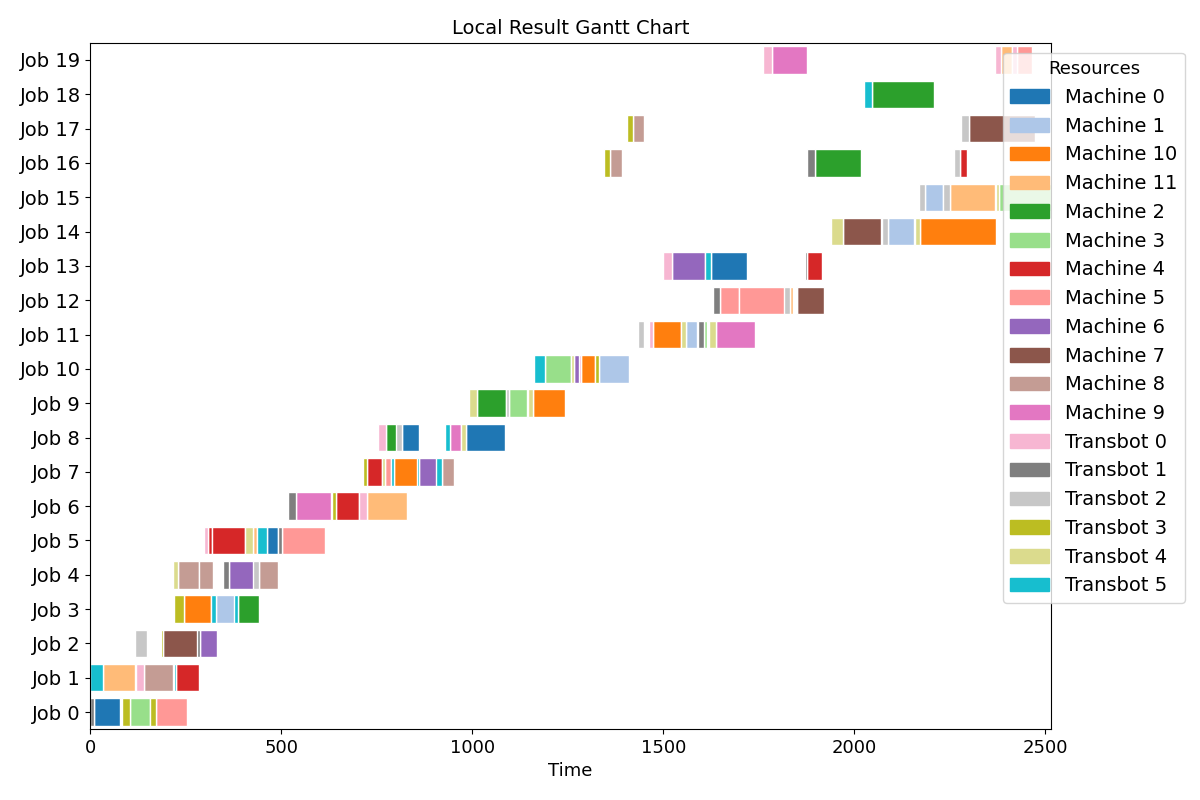
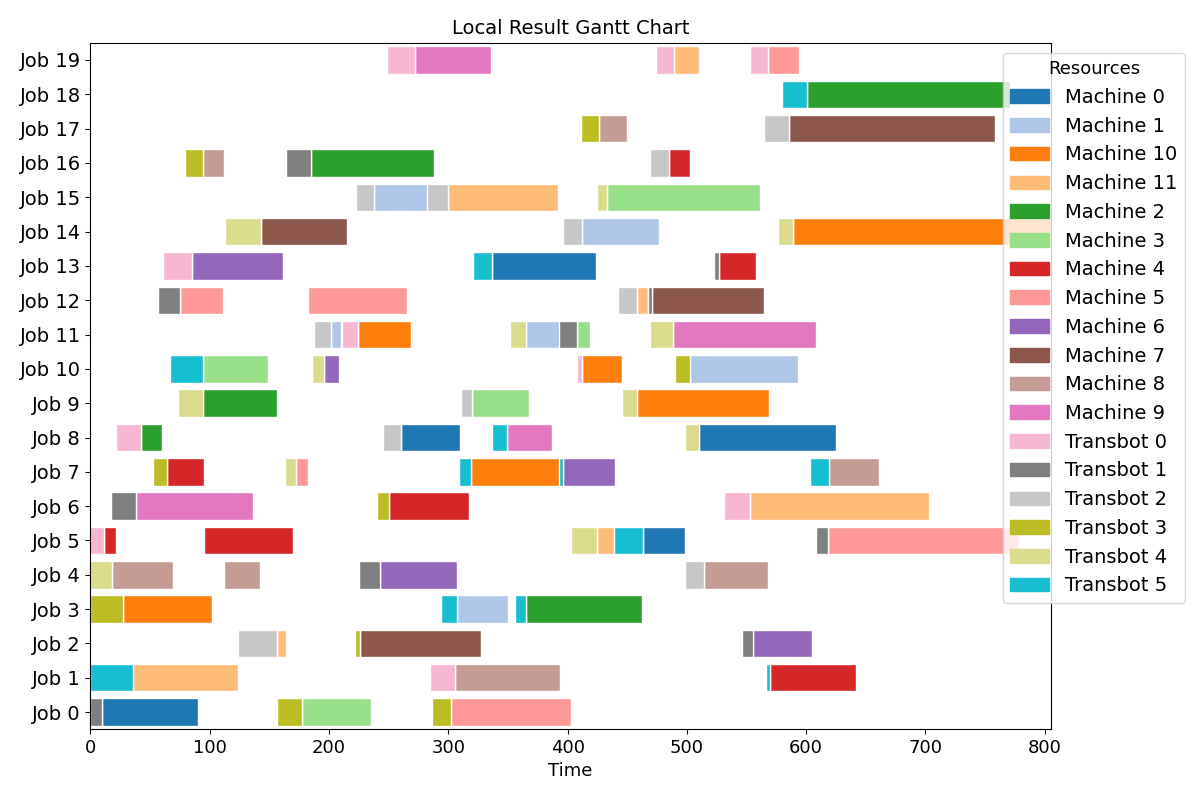
update

diff --git a/local_realtime_scheduling/Environment/InitialScheduleEnv.py b/local_realtime_scheduling/Environment/InitialScheduleEnv.py
@@ -1,5 +1,6 @@
 # from memory_profiler import profile
 # @profile
+import bisect
 import os
 import pickle
 from collections import deque
@@ -48,7 +49,7 @@ class InitialScheduleEnv(MultiAgentEnv):
     """
     A Multi-agent Environment for Integrated Production, Transportation and Maintenance Real-time Scheduling.
     """
-    metadata = {"render_modes": ["human", "rgb_array"], "render_fps": 20}
+    metadata = {"render_modes": ["human", "rgb_array"], "render_fps": 1}
 
     def __init__(self,
                  config,
@@ -446,19 +447,39 @@ class InitialScheduleEnv(MultiAgentEnv):
                     # assigned_machine=None,
                 ))
                 this_job.processing_operations_for_current_time_window.append(int(operation_id))
+
+                scheduled_processing_op = (job_id, operation_id,
+                                           local_schedule_job.operations[operation_id].scheduled_start_processing_time)
+                op_index = bisect.bisect_left([op[2] for op in self.factory_instance.machines[
+                    local_schedule_job_operation.assigned_machine
+                ].processing_tasks_queue_for_current_time_window],
+                                              local_schedule_job.operations[operation_id].scheduled_start_processing_time)
                 self.factory_instance.machines[
                     local_schedule_job_operation.assigned_machine
-                ].processing_tasks_queue_for_current_time_window.append((job_id, operation_id))
+                ].processing_tasks_queue_for_current_time_window.insert(op_index, scheduled_processing_op)
+
                 if local_schedule_job_operation.assigned_transbot is not None:
+                    scheduled_transporting_op = (job_id, operation_id,
+                                               local_schedule_job.operations[operation_id].scheduled_start_transporting_time)
                     if operation_id == 0:
+                        op_index = bisect.bisect_left([op[2] for op in self.factory_instance.agv[
+                            local_schedule_job_operation.assigned_transbot
+                        ].transport_tasks_queue_for_current_time_window],
+                                                      local_schedule_job.operations[operation_id].scheduled_start_transporting_time)
                         self.factory_instance.agv[
                             local_schedule_job_operation.assigned_transbot
-                        ].transport_tasks_queue_for_current_time_window.append((job_id, operation_id))
+                        ].transport_tasks_queue_for_current_time_window.insert(op_index, scheduled_transporting_op)
+
                     else:
                         if local_schedule_job.operations[operation_id].assigned_machine != local_schedule_job.operations[operation_id - 1].assigned_machine:
+                            op_index = bisect.bisect_left([op[2] for op in self.factory_instance.agv[
+                                local_schedule_job_operation.assigned_transbot
+                            ].transport_tasks_queue_for_current_time_window],
+                                                          local_schedule_job.operations[
+                                                              operation_id].scheduled_start_transporting_time)
                             self.factory_instance.agv[
                                 local_schedule_job_operation.assigned_transbot
-                            ].transport_tasks_queue_for_current_time_window.append((job_id, operation_id))
+                            ].transport_tasks_queue_for_current_time_window.insert(op_index, scheduled_transporting_op)
 
             if len(this_job.processing_operations_for_current_time_window) > 0:
                 this_job.current_processing_operation = this_job.processing_operations_for_current_time_window[0]

diff --git a/local_realtime_scheduling/Environment/LocalSchedulingMultiAgentEnv_v2.py b/local_realtime_scheduling/Environment/LocalSchedulingMultiAgentEnv_v2.py
@@ -1,5 +1,6 @@
 # from memory_profiler import profile
 # @profile
+import bisect
 import os
 import pickle
 from collections import deque
@@ -418,20 +419,43 @@ class LocalSchedulingMultiAgentEnv(MultiAgentEnv):
                     # assigned_machine=None,
                 ))
                 this_job.processing_operations_for_current_time_window.append(int(operation_id))
+
+                scheduled_processing_op = (job_id, operation_id,
+                                           local_schedule_job.operations[operation_id].scheduled_start_processing_time)
+                op_index = bisect.bisect_left([op[2] for op in self.factory_instance.machines[
+                    local_schedule_job_operation.assigned_machine
+                ].processing_tasks_queue_for_current_time_window],
+                                              local_schedule_job.operations[
+                                                  operation_id].scheduled_start_processing_time)
                 self.factory_instance.machines[
                     local_schedule_job_operation.assigned_machine
-                ].processing_tasks_queue_for_current_time_window.append((job_id, operation_id))
+                ].processing_tasks_queue_for_current_time_window.insert(op_index, scheduled_processing_op)
+
                 if local_schedule_job_operation.assigned_transbot is not None:
+                    scheduled_transporting_op = (job_id, operation_id,
+                                                 local_schedule_job.operations[
+                                                     operation_id].scheduled_start_transporting_time)
                     if operation_id == 0:
+                        op_index = bisect.bisect_left([op[2] for op in self.factory_instance.agv[
+                            local_schedule_job_operation.assigned_transbot
+                        ].transport_tasks_queue_for_current_time_window],
+                                                      local_schedule_job.operations[
+                                                          operation_id].scheduled_start_transporting_time)
                         self.factory_instance.agv[
                             local_schedule_job_operation.assigned_transbot
-                        ].transport_tasks_queue_for_current_time_window.append((job_id, operation_id))
+                        ].transport_tasks_queue_for_current_time_window.insert(op_index, scheduled_transporting_op)
+
                     else:
                         if local_schedule_job.operations[operation_id].assigned_machine != \
                                 local_schedule_job.operations[operation_id - 1].assigned_machine:
+                            op_index = bisect.bisect_left([op[2] for op in self.factory_instance.agv[
+                                local_schedule_job_operation.assigned_transbot
+                            ].transport_tasks_queue_for_current_time_window],
+                                                          local_schedule_job.operations[
+                                                              operation_id].scheduled_start_transporting_time)
                             self.factory_instance.agv[
                                 local_schedule_job_operation.assigned_transbot
-                            ].transport_tasks_queue_for_current_time_window.append((job_id, operation_id))
+                            ].transport_tasks_queue_for_current_time_window.insert(op_index, scheduled_transporting_op)
 
             if len(this_job.processing_operations_for_current_time_window) > 0:
                 this_job.current_processing_operation = this_job.processing_operations_for_current_time_window[0]

diff --git a/local_realtime_scheduling/BaselineMethods/DispatchingRules/dispatching_rules_test.py b/local_realtime_scheduling/BaselineMethods/DispatchingRules/dispatching_rules_test.py
@@ -48,7 +48,7 @@ if __name__ == "__main__":
         "n_transbots": dfjspt_params.n_transbots,
         "local_schedule": local_schedule,
         # "local_result_file": result_file_name,
-        "local_result_file": init_schedule_result_file_name,
+        # "local_result_file": init_schedule_result_file_name,
         # "render_mode": "human",
     }
 
@@ -57,7 +57,7 @@ if __name__ == "__main__":
 
     func("Env instance created.")
 
-    num_episodes = 1
+    num_episodes = 100
 
     makespans = []
 
